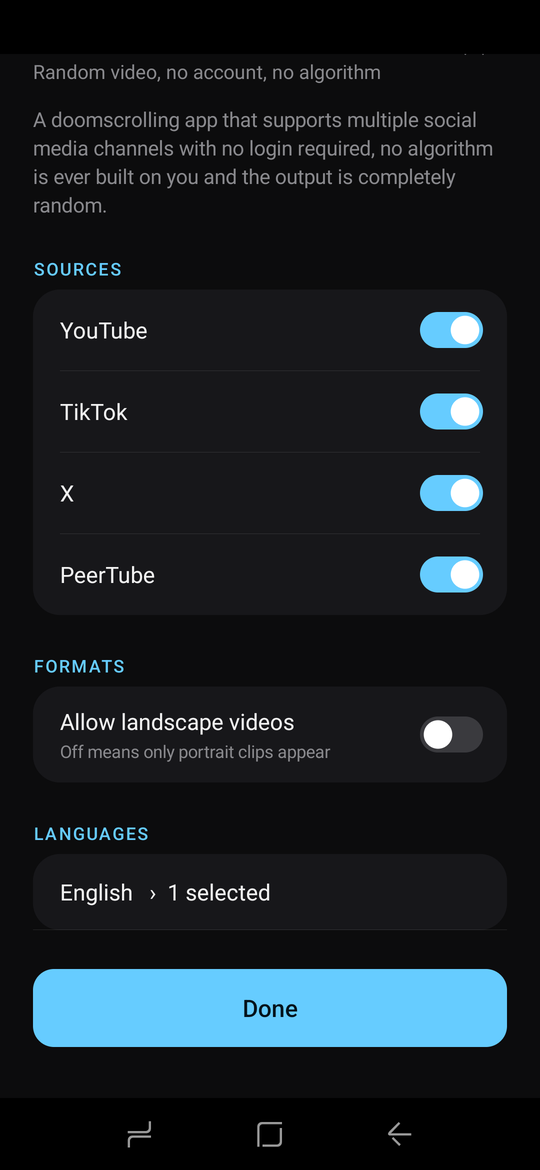
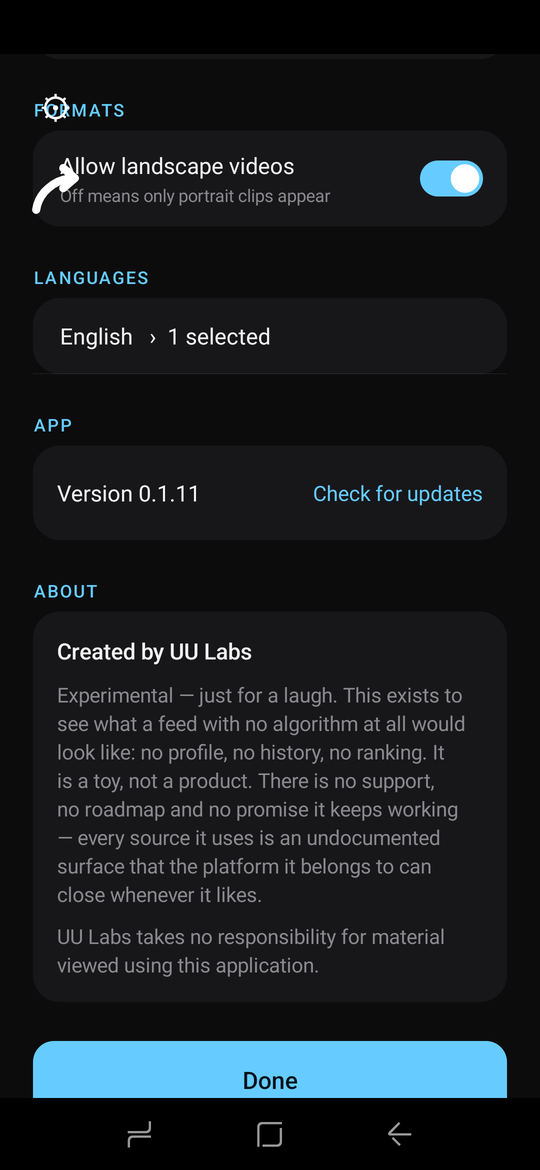
0.1.12: an About section in settings
States who made it, that it is an experiment built to see what a feed with no
algorithm looks like, and that UU Labs takes no responsibility for material
viewed through it.

diff --git a/app/src/main/java/au/com/uulabs/doomscroller/SettingsUi.java b/app/src/main/java/au/com/uulabs/doomscroller/SettingsUi.java
@@ -266,6 +266,45 @@ final class SettingsUi {
         aboutCard.addView(check);
         column.addView(aboutCard);
 
+        // ---- about
+        column.addView(sectionLabel(context, "ABOUT", null));
+
+        LinearLayout aboutBody = card(context);
+        aboutBody.setOrientation(LinearLayout.VERTICAL);
+        int bodyPad = dp(context, 16);
+        aboutBody.setPadding(bodyPad, bodyPad, bodyPad, bodyPad);
+
+        TextView created = new TextView(context);
+        created.setText("Created by UU Labs");
+        created.setTextColor(TEXT);
+        created.setTextSize(TypedValue.COMPLEX_UNIT_SP, 15f);
+        created.setTypeface(Typeface.create("sans-serif-medium", Typeface.NORMAL));
+        aboutBody.addView(created);
+
+        TextView experimental = new TextView(context);
+        experimental.setText("Experimental — just for a laugh. This exists to see what a "
+                + "feed with no algorithm at all would look like: no profile, no "
+                + "history, no ranking. It is a toy, not a product. There is no "
+                + "support, no roadmap and no promise it keeps working — every source "
+                + "it uses is an undocumented surface that the platform it belongs to "
+                + "can close whenever it likes.");
+        experimental.setTextColor(MUTED);
+        experimental.setTextSize(TypedValue.COMPLEX_UNIT_SP, 13.5f);
+        experimental.setLineSpacing(dp(context, 3), 1f);
+        experimental.setPadding(0, dp(context, 10), 0, 0);
+        aboutBody.addView(experimental);
+
+        TextView noResponsibility = new TextView(context);
+        noResponsibility.setText("UU Labs takes no responsibility for material viewed "
+                + "using this application.");
+        noResponsibility.setTextColor(MUTED);
+        noResponsibility.setTextSize(TypedValue.COMPLEX_UNIT_SP, 13.5f);
+        noResponsibility.setLineSpacing(dp(context, 3), 1f);
+        noResponsibility.setPadding(0, dp(context, 10), 0, 0);
+        aboutBody.addView(noResponsibility);
+
+        column.addView(aboutBody);
+
         // ---- done
         TextView done = new TextView(context);
         done.setText("Done");
